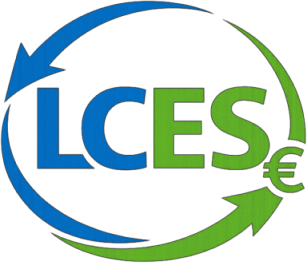
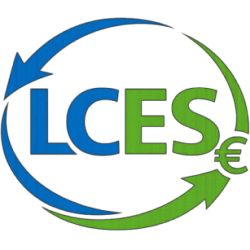
square images & remove console msg

Changed region(s): [[0.0, 0.0, 1.0, 1.0], [0.84, 0.476, 0.868, 0.504], [0.7, 0.476, 0.728, 0.504]]

diff --git a/app/menu/scan.tsx b/app/menu/scan.tsx
@@ -5,7 +5,7 @@ import { useState } from "react";
 import { Button, Text, View } from "react-native";
 import globalStyles from "../globalStyles";
 
-const debug_this_ui = true;
+const debug_this_ui = false;
 
 const ScanScreen = () => {
   const [permission, requestPermission] = useCameraPermissions();

diff --git a/app/menu/recieve.tsx b/app/menu/recieve.tsx
@@ -6,7 +6,7 @@ import globalStyles from "../globalStyles";
 
 const currencyLogo = require("../../assets/images/currency.png");
 
-const debug_this_ui = true;
+const debug_this_ui = false;
 
 const ReceiveScreen = () => {
   const [qrValue, setQrValue] = useState("initial-value");

diff --git a/app/menu/pay.tsx b/app/menu/pay.tsx
@@ -8,7 +8,7 @@ import { pay } from "../../services/controller";
 
 const currencyLogo = require("../../assets/images/currency.png");
 
-const debug_this_ui = true;
+const debug_this_ui = false;
 
 const PayScreen = () => {
   const [amount, setAmount] = useState("0.00");
